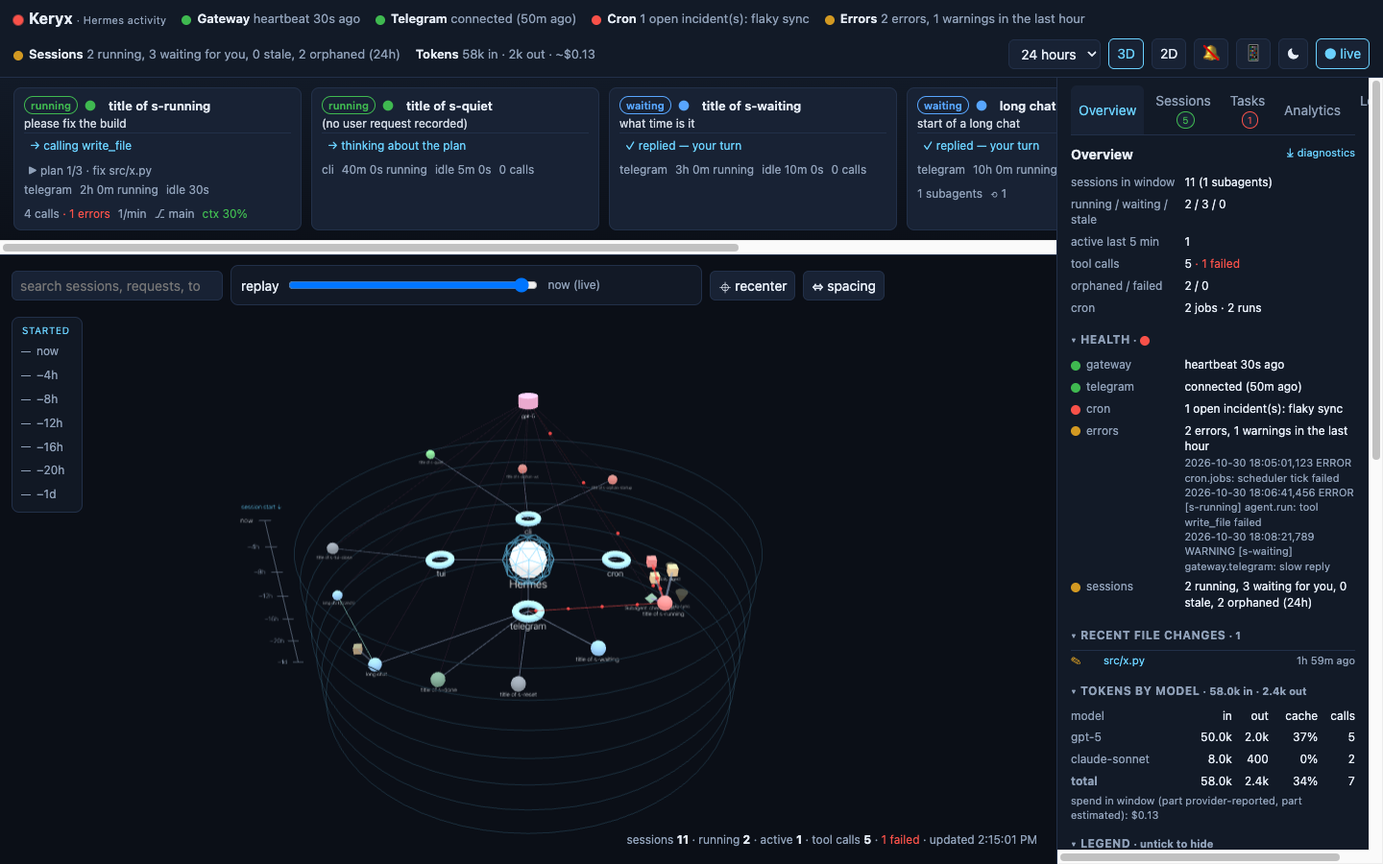
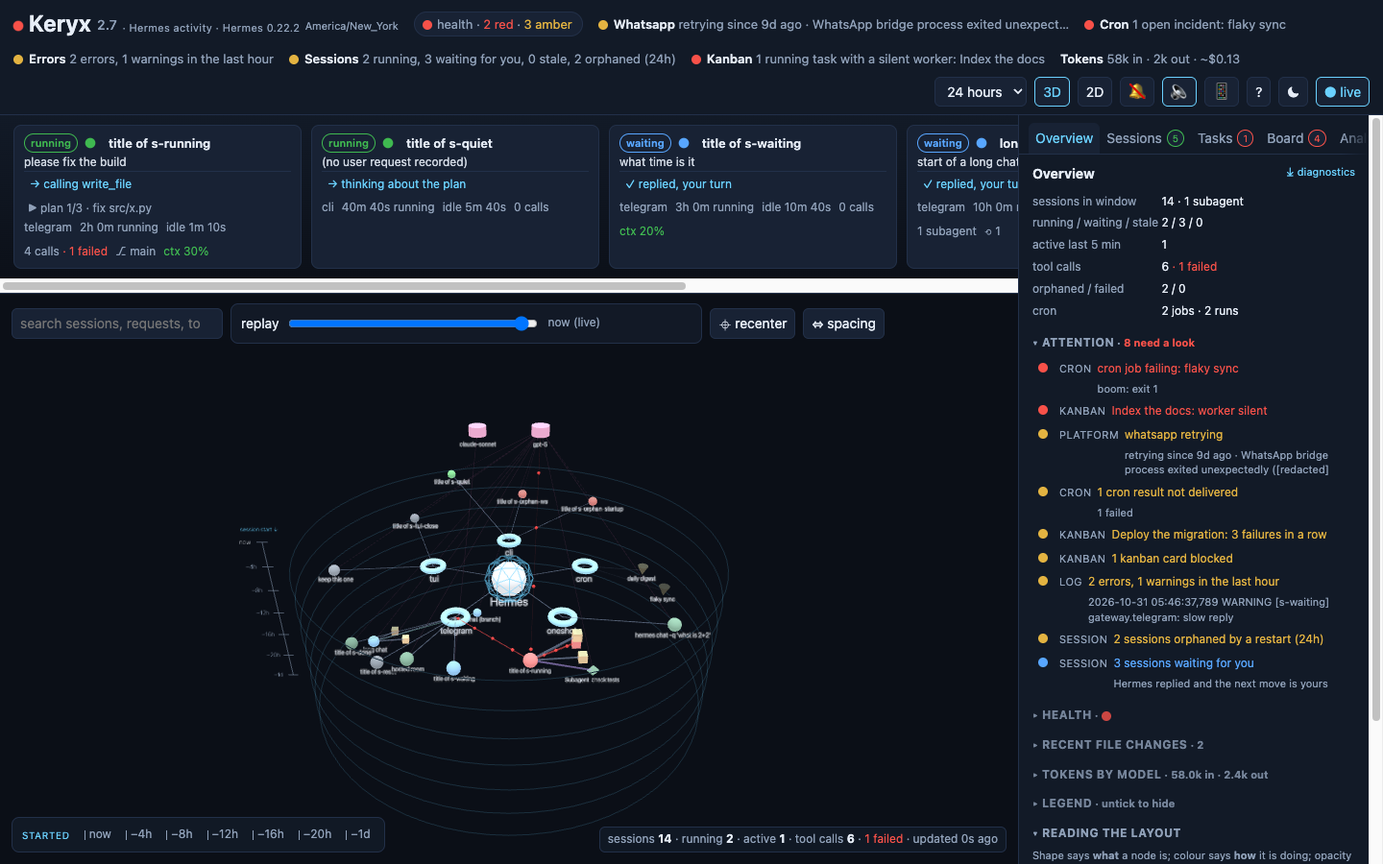
Docs: refresh for 2.7, new screenshots
README and the website now describe the header pill and attention list,
the regrouped session detail, the board and analytics tabs, the phone
layout, the first-run card, the keyboard, sounds, and how the context
window is resolved. Every screenshot is regenerated from the synthetic
test fixture at 1440×900 (graph, session, board, analytics, tasks, logs,
light theme) plus two phone views at 400×800; the README gains a gallery
and the website four new figures.

Changed region(s): [[0.0, 0.0, 1.0, 1.0], [0.1875, 0.4356, 0.5312, 0.8089], [0.0312, 0.9644, 0.0938, 0.9956]]

diff --git a/docs/index.html b/docs/index.html
@@ -161,8 +161,8 @@ footer .wrap > div { display: flex; flex-wrap: wrap; gap: 16px; align-items: cen
       </div>
     </div>
     <figure class="shot" style="margin:0">
-      <img src="img/graph.png" width="1440" height="900" alt="The Keryx dashboard: a health header, a strip of running sessions, the 3D graph with Hermes at the centre and platforms, sessions, tools and cron jobs around it, and the overview side panel">
-      <figcaption>A Hermes install with two live sessions, a compacted Telegram chat, a subagent, two cron jobs and one open incident (sample data).</figcaption>
+      <img src="img/graph.png" width="1440" height="900" alt="The Keryx dashboard: a health pill, a strip of running sessions, the 3D graph with Hermes at the centre and platforms, sessions, tools and cron jobs around it, and the overview panel with its attention list">
+      <figcaption>A Hermes install with two live sessions, a compacted Telegram chat, a subagent, two cron jobs, a kanban board and one open incident (sample data). The attention list on the right says what needs a look.</figcaption>
     </figure>
   </div>
 </header>
@@ -221,7 +221,7 @@ footer .wrap > div { display: flex; flex-wrap: wrap; gap: 16px; align-items: cen
       </div>
       <div class="card">
         <h3>Position is when it started</h3>
-        <p>Each platform (Telegram, TUI, CLI, cron…) owns a wedge around the hub and its sessions sit inside it, ordered by start time. A labelled time axis runs down the side: in 3D the rings step downward from "now", in 2D they grow outward. Opacity fades with age. Subagents orbit the session that spawned them; tools cluster around the session that called them; models sit on a shelf above; cron jobs fan out below.</p>
+        <p>Each platform (Telegram, TUI, CLI, cron…) owns a wedge around the hub and its sessions sit inside it, ordered by start time. In 3D the rings step downward from "now", in 2D they grow outward, and a clickable ruler along the bottom of the graph filters by when a session started. Opacity fades with age; labels scale with distance. Subagents orbit the session that spawned them; tools cluster around the session that called them; models sit on a shelf above; cron jobs fan out below.</p>
       </div>
     </div>
   </div>
@@ -236,13 +236,14 @@ footer .wrap > div { display: flex; flex-wrap: wrap; gap: 16px; align-items: cen
 
     <div class="two">
       <figure class="shot" style="margin:0">
-        <img src="img/session.png" width="1440" height="900" alt="A session selected in Keryx: its tools fanned out in a ring, and the side panel showing status, request, plan progress, context gauge, cost, working directory, the agent's todo checklist, files touched and the turn-by-turn trace">
-        <figcaption>A selected session: tools fan out in a ring facing you; the panel shows its plan, context gauge, cost and trace.</figcaption>
+        <img src="img/session.png" width="1440" height="900" alt="A session selected in Keryx: its tools fanned out in a ring, and the side panel showing status, request, latest step, the context gauge, the resume command and the turn-by-turn trace">
+        <figcaption>A selected session: tools fan out in a ring facing you; the panel opens with four lines and the trace, then the plan, what fills the context and files touched.</figcaption>
       </figure>
       <div class="grid" style="grid-template-columns:1fr">
         <div class="card">
           <h3>Health header</h3>
           <ul>
+            <li>The title dot shows the worst check; a <strong>health</strong> pill counts the red and amber ones and opens every check; only checks that are not green stay inline.</li>
             <li><strong>Gateway</strong> heartbeat and Hermes' own process state and version from <code>gateway_state.json</code>, one check per <strong>messaging platform</strong> as the gateway reports it (with the error it recorded when one is retrying), <strong>cron</strong> scheduler, the <strong>error log</strong>, session states, and the kanban board when it has tasks, each green / amber / red; the worst one drives the title dot.</li>
             <li>The cron check reads Hermes' own incident ledger and delivery queue: an open incident is red, undelivered results are amber.</li>
             <li>Token totals for the window with the spend, prefixed <code>~</code> when it is an estimate rather than a provider-reported figure.</li>
@@ -274,7 +275,8 @@ footer .wrap > div { display: flex; flex-wrap: wrap; gap: 16px; align-items: cen
         <ul>
           <li>Window selector from the last hour to all time.</li>
           <li><strong>Replay</strong>: drag the bar to re-query the graph as of any moment in the window and watch sessions appear, run and end.</li>
-          <li>Click a label on the time axis to keep only the sessions that started in that span.</li>
+          <li>Click a label on the ruler under the graph to keep only the sessions that started in that span.</li>
+          <li>Times are shown in your browser's zone, named in the header; analytics days are counted in UTC.</li>
         </ul>
       </div>
       <div class="card">
@@ -288,14 +290,13 @@ footer .wrap > div { display: flex; flex-wrap: wrap; gap: 16px; align-items: cen
       <div class="card">
         <h3>Session detail</h3>
         <ul>
-          <li>Status, request, latest step, platform, model, timings, message and tool counts, call rate, subagents, end reason.</li>
-          <li>Tokens in / out, cache reads and hit rate, reasoning tokens, API calls, and the cost with its basis (provider-reported or estimated).</li>
-          <li>Working directory and git branch, profile, handoff state.</li>
+          <li>Opens with four lines, status, request, latest step and the context gauge, and the command that resumes the conversation in a terminal; the trace comes next.</li>
+          <li><strong>Cost and usage</strong> (tokens in / out, cache reads and hit rate, reasoning tokens, API calls, the cost with its basis) and <strong>lineage and environment</strong> (platform, model, timings, working directory and branch, profile, parent, compactions, Hermes' own flags) sit in collapsed sections.</li>
+          <li><strong>What fills the context</strong>: your messages, replies, tool-call arguments and tool output by tool, in characters, with the largest output.</li>
           <li>The agent's <strong>plan</strong> as a checklist (done, in progress, pending, cancelled).</li>
           <li><strong>Files touched</strong>: writes, patches, reads and searches, most recent first, with lines added and removed.</li>
           <li>The <strong>reading view</strong>: the conversation as turns (your question → a collapsible "steps · N" block → Hermes' reply), an <strong>outline</strong> of every question to jump to, an <strong>all / chat / changes</strong> filter, <strong>find in session</strong>, and <strong>copy or download as Markdown</strong>.</li>
           <li>Every tool call with a kind glyph, a one-line title (the command, path, query or goal), duration, exit code, output size and <code>+added −removed</code> for file edits; Hermes' own events (model switch, steer, auto-continue, delegation results) in place.</li>
-          <li>The command that resumes the conversation in a terminal (<code>hermes -r …</code>), one click to copy.</li>
         </ul>
       </div>
       <div class="card">
@@ -360,7 +361,7 @@ footer .wrap > div { display: flex; flex-wrap: wrap; gap: 16px; align-items: cen
           <li>Every selection is a browser history entry that remembers the selection, the tab and the camera pose. <kbd>Backspace</kbd> goes back, <kbd>Shift</kbd>+<kbd>Backspace</kbd> forward; <kbd>Alt</kbd>+<kbd>←</kbd> and trackpad swipes work too. <kbd>[</kbd> and <kbd>]</kbd> change tab, <kbd>↑</kbd> <kbd>↓</kbd> walk the session list, <kbd>?</kbd> in the header reopens the first-run card.</li>
           <li>On a phone the graph and the panel take turns at full width behind a map / panel toggle; light and dark themes are both designed, not inverted.</li>
           <li>The URL hash (<code>#session:…</code>, <code>#cron:…</code>) is a deep link you can share, or scan from the QR popover to open on your phone, where "add to home screen" keeps Keryx as an app.</li>
-          <li>Dark and light themes.</li>
+          <li>Every icon button is labelled for screen readers; focus rings are visible; a first-run card explains the picture and <kbd>?</kbd> brings it back.</li>
         </ul>
       </div>
       <div class="card">
@@ -374,12 +375,35 @@ footer .wrap > div { display: flex; flex-wrap: wrap; gap: 16px; align-items: cen
 
     <div class="two">
       <figure class="shot" style="margin:0">
+        <img src="img/board.png" width="1440" height="900" alt="The board tab: Hermes' kanban lanes with a running card opened to its comments, run history and event timeline">
+        <figcaption>Board: Hermes' kanban queue in its own lanes, read-only, with a card open.</figcaption>
+      </figure>
+      <figure class="shot" style="margin:0">
+        <img src="img/analytics.png" width="1440" height="900" alt="The analytics tab: insight sentences, session and token tiles, sessions-per-day momentum, cache hit, provider mix donut">
+        <figcaption>Analytics: insights, momentum, cache trend, provider mix, when Hermes works.</figcaption>
+      </figure>
+    </div>
+    <div class="two">
+      <figure class="shot" style="margin:0">
         <img src="img/tasks.png" width="1440" height="900" alt="The tasks tab: a completed delegation, two scheduled jobs with run history, an open incident and its lifecycle">
         <figcaption>Tasks: delegations, scheduled jobs, Hermes' incident ledger.</figcaption>
       </figure>
       <figure class="shot" style="margin:0">
         <img src="img/logs.png" width="1440" height="900" alt="The logs tab: error-level lines from errors.log, one of them tagged with the session that logged it">
         <figcaption>Logs: every file Hermes writes, filtered by level; session-tagged lines link to their session.</figcaption>
+      </figure>
+    </div>
+    <div class="two">
+      <figure class="shot" style="margin:0">
+        <img src="img/light.png" width="1440" height="900" alt="The light theme in 2D: the same graph with labels, rings and overlays in the light palette">
+        <figcaption>The light theme, 2D view: every overlay and graph colour follows the theme.</figcaption>
+      </figure>
+      <figure class="shot phones" style="margin:0;background:transparent;border:0;box-shadow:none">
+        <div style="display:flex;gap:12px;justify-content:center">
+          <img src="img/phone-panel.png" width="400" height="800" alt="Keryx on a phone: the overview panel at full width with the attention list" style="width:48%;border:1px solid var(--line);border-radius:12px">
+          <img src="img/phone-map.png" width="400" height="800" alt="Keryx on a phone: the map view, with session cards above the 2D graph" style="width:48%;border:1px solid var(--line);border-radius:12px">
+        </div>
+        <figcaption>On a phone the panel and the map take turns at full width.</figcaption>
       </figure>
     </div>
   </div>
@@ -441,7 +465,7 @@ cd keryx
         <tr><td><code>KERYX_SHOW_MEMORY</code></td><td>unset</td><td><code>1</code> adds the read-only memory tab (Hermes' <code>MEMORY.md</code> and <code>USER.md</code>); off by default because these are personal notes</td></tr>
         <tr><td><code>ACTIVE_WINDOW</code></td><td><code>300</code></td><td>seconds; a session touched this recently is "active" and its links carry particles</td></tr>
         <tr><td><code>STALE_AFTER</code></td><td><code>1800</code></td><td>seconds; a session mid-turn but idle for this long is shown as stale</td></tr>
-        <tr><td><code>CONTEXT_LENGTH</code></td><td><code>400000</code></td><td>assumed context window for the gauge when the model family is not recognised (Hermes does not record it; such gauges are marked <code>~</code>)</td></tr>
+        <tr><td><code>CONTEXT_LENGTH</code></td><td><code>400000</code></td><td>last-resort context window for the gauge; Keryx first uses <code>model.context_length</code> from Hermes' config, then the window Hermes probed into <code>context_length_cache.yaml</code>, then a built-in table</td></tr>
       </tbody>
     </table></div>
     <h3>What Keryx reads</h3>

diff --git a/README.md b/README.md
@@ -9,11 +9,28 @@ Keryx reads the agent's own records (its SQLite state, cron store and logs) with
 
 Named after κῆρυξ, the Greek herald who carried messages for Hermes. Keryx is an open-source project of [Aflux Systems LLC](https://www.afluxsystems.com). Website: **https://rafreid.github.io/keryx/**
 
-![Keryx showing a Hermes session with its tool ring, subagents and the side panel](docs/img/graph.png)
+![The Keryx dashboard: a health pill, running-session cards, the 3D graph of a Hermes install, and the overview panel with its attention list (sample data)](docs/img/graph.png)
 
 - **Read-only.** Keryx opens Hermes' files, never writes them, and never talks to the agent.
-- **Live.** A server-sent-events stream pushes an update whenever a Hermes file changes.
+- **Live.** A server-sent-events stream pushes an update whenever a Hermes file changes; every panel refreshes on that one clock.
 - **One rule for the picture.** Shape says *what* a thing is, colour says *how it is doing*, position says *when* it started.
+- **Triage first.** One ranked attention list says what needs a look, and every line leads to the node or the tab that explains it.
+- **Works on a phone, in both themes.** The graph and the panel take turns at full width; light and dark are both designed, not inverted.
+
+## Screenshots
+
+All screenshots are taken from the synthetic fixture the tests use, never from a real install.
+
+| | |
+|---|---|
+| ![A selected session: four summary lines, the resume command, and the trace as turns](docs/img/session.png) | ![The kanban board tab with a running card opened: comments, run history and the event timeline](docs/img/board.png) |
+| A selected session: status, request, latest step and context, then the trace as turns. | The kanban board, read-only, with a card open. |
+| ![The analytics tab: insight sentences, tiles, provider mix, hour-of-day clock](docs/img/analytics.png) | ![The tasks tab: delegations, scheduled jobs with run history, Hermes' incident ledger](docs/img/tasks.png) |
+| Analytics: insights, momentum, cache trend, provider mix, when Hermes works. | Tasks: delegations, scheduled jobs, incidents, the delivery queue. |
+| ![The logs tab: error-level lines, one tagged with the session that logged it](docs/img/logs.png) | ![The light theme in 2D: the same graph with labels and rings in the light palette](docs/img/light.png) |
+| Logs: every file Hermes writes, filtered by level; session-tagged lines link to their session. | The light theme, 2D view. |
+
+<p align="center"><img src="docs/img/phone-panel.png" width="280" alt="Keryx on a phone: the overview panel at full width with the attention list"> <img src="docs/img/phone-map.png" width="280" alt="Keryx on a phone: the map view, with the session cards above the 2D graph"></p>
 
 ## Quick start
 
@@ -75,13 +92,19 @@ docker compose pull keryx && docker compose up -d keryx      # Docker
 
 | Area | What it shows |
 |---|---|
-| Health header | the title dot shows the worst check and a **health** pill counts the red and amber ones (click it for every check); only checks that are not green stay inline. Checks: gateway (heartbeat, Hermes' own process state from `gateway_state.json`, the Hermes version), one check per messaging platform (Telegram, WhatsApp, webhook, API server… as the gateway reports them, with the error it recorded when one is retrying), cron scheduler (incidents, missed slots, undelivered results), error log, session states, the kanban board when it has tasks, storage (size of `state.db`, its WAL and the logs, free space on the data disk). Green / amber / red per check; the worst one drives the title dot. Token totals with the spend, marked `~` when estimated. |
-| Right now | every open session: the user's request, the latest step, the agent's plan progress, elapsed and idle time, calls per minute, context usage, git branch, subagents. |
-| Attention | one ranked list of everything red or amber (failing cron jobs, platforms that are not connected, silent kanban workers, undelivered results, log errors, a pending gateway restart, orphaned sessions) plus the sessions waiting for you; each line selects the node or opens the tab. |
-| Graph | Hermes at the centre, the platforms it talks on around it, each session in its platform's wedge with its tools clustered around it, subagents in orbit, models on a shelf, cron jobs below. 3D or 2D. |
-| Side panel | **overview** (health, recent file changes with lines added and removed, tokens by model, legend), **sessions** (grouped by platform, time or project; `#tags` from titles as filter chips; ☆ pins, plus ★ for sessions pinned in Hermes itself; Hermes' internal sessions (one-shot CLI calls, tool helpers, kanban workers) in a collapsed group of their own; sessions Hermes hides from its own picker stay out unless you tick "show hidden"; the search box also looks inside conversations through Hermes' full-text index), **tasks** (delegations board, scheduled jobs with run history and missed slots, Hermes' cron incidents and delivery queue), **board** (Hermes' kanban queue in its own lanes, read-only: cards with assignee, priority, heartbeat and failure streak; click one for its body, result, worker session, comments, runs and event timeline; a board switcher when there are several), **analytics** (insight sentences, sessions-per-day momentum, cache-hit trend, provider mix, when Hermes works by hour of day and weekday, daily trend, a year heatmap, per-day cost, model share, Hermes' skill ledger, achievement unlocks), **logs** (filterable tails of every log file Hermes writes; lines logged inside a session link to it), **memory** (Hermes' `MEMORY.md` and `USER.md`, read-only, opt-in). Selecting a node shows its details, context gauge (sized from the window Hermes probed for the model, or `model.context_length` in its config), the agent's plan (its `todo_list`), what fills the context (your messages, replies, tool-call arguments and tool output by tool, in characters), files touched, the command to resume the conversation in a terminal, and the session as a reading view (below). |
+| Header | the title dot shows the worst health check; a **health** pill counts the red and amber ones and opens every check; only checks that are not green stay inline. Checks: gateway (heartbeat, Hermes' own process state and version from `gateway_state.json`, a pending restart), one per messaging platform as the gateway reports it, cron (incidents, missed slots, undelivered results), error log, sessions, the kanban board when it has tasks, storage. Token totals with the spend, `~` when estimated. The browser's timezone is named beside the title. |
+| Right now | one card per open session: the request, the latest step, plan progress, elapsed and idle time, calls per minute, context usage, git branch, subagents. |
+| Attention | one ranked list of everything red or amber (failing cron jobs, platforms that are not connected, silent kanban workers, undelivered results, log errors, a pending gateway restart, orphaned sessions) and, last, the sessions waiting for you. Each line selects the node or opens the tab. |
+| Graph | Hermes at the centre, the platforms it talks on around it, each session in its platform's wedge with its tools clustered around it, subagents in orbit, models on a shelf, cron jobs below. 3D or 2D; labels scale with distance. A clickable ruler along the bottom filters by when a session started. |
+| Selected node | a session opens with four lines (status, request, latest step, context gauge) and the command to resume it in a terminal, then the **trace** as a reading view, the agent's **plan** (its `todo_list`), **what fills the context** (your messages, replies, tool-call arguments and tool output by tool, in characters), **files touched**, and two collapsed sections: cost and usage, lineage and environment. |
+| Sessions tab | grouped by platform, time or project; `#tags` from titles as filter chips; ☆ pins, ★ for sessions pinned in Hermes itself; Hermes' internal sessions (one-shot calls, tool helpers, kanban workers) in a collapsed group; sessions Hermes hides stay out unless you tick "show hidden". The search box also looks inside conversations through Hermes' full-text index. |
+| Tasks tab | delegations board, scheduled jobs with run history and missed slots, Hermes' cron incidents and delivery queue. |
+| Board tab | Hermes' kanban queue in its own lanes, read-only: cards with assignee, priority, heartbeat and failure streak; click one for its body, result, worker session, comments, runs and event timeline; a board switcher when there are several. |
+| Analytics tab | insight sentences, sessions-per-day momentum, cache-hit trend, provider mix, when Hermes works by hour of day and weekday, daily trend, a year heatmap, per-day cost, model share, Hermes' skill ledger, achievement unlocks. |
+| Logs tab | filterable tails of every log file Hermes writes; lines logged inside a session link to it. |
+| Memory tab | Hermes' `MEMORY.md` and `USER.md`, read-only, opt-in (`KERYX_SHOW_MEMORY=1`). |
 | Phone | under 800px the graph and the panel take turns at full width behind a map / panel toggle; screens under 1200px start in 2D. |
-| Keyboard | `⌘K` search · `[` `]` change tab · `↑` `↓` walk the session list, `Enter` selects · `Esc` deselects · `Backspace` back, `Shift+Backspace` forward. A `?` in the header reopens the first-run card. |
+| First run | a card explains shape, colour and position, the glyphs, and where the data comes from; the `?` in the header brings it back. |
 | Notifications | in-app toasts, desktop notifications if you allow them, and optional short synthesised sounds (no audio files), when Hermes replies and waits for you, a session fails or is orphaned, a delegation finishes, a cron job fails or misses its trigger. |
 
 **Compacted conversations.** When Hermes compacts a long chat it ends the session and continues in a child session. Keryx folds that lineage into one node: it starts when the first segment started, takes its colour from the latest segment, and its trace shows every segment with a ⟲ marker where the context was compacted. The node keeps the first segment's id, so a `#session:…` link to any segment opens the same node. Branches the user made (`/branch`) stay separate sessions joined to their origin by a teal link; delegated subagents keep their purple link.
@@ -94,7 +117,7 @@ docker compose pull keryx && docker compose up -d keryx      # Docker
 
 **Reading the graph.** Hover highlights a neighbourhood. Click a node to select it; sessions fan their tools out in a ring facing you. Click a platform to collapse it. Search dims everything that does not match. The legend in the overview tab has checkboxes to hide any kind or status.
 
-**Time.** The window selector (last hour to all time) sets what is loaded. The replay bar re-queries the graph as of any moment in the window. The time axis on the left is clickable: each label keeps only the sessions that started in that span, and the stats bar reads "showing N of M".
+**Time.** The window selector (last hour to all time) sets what is loaded. The replay bar re-queries the graph as of any moment in the window. The ruler along the bottom of the graph is clickable: each label keeps only the sessions that started in that span, and the stats bar reads "showing N of M". Times are shown in your browser's zone (named in the header); analytics days are counted in UTC.
 
 **Spacing.** ⇔ spacing scales rings, link lengths and repulsion together (compact / normal / airy / wide, or a slider). ⌖ recenter frames the whole graph again. Both settings are remembered per browser.
 
@@ -108,9 +131,13 @@ docker compose pull keryx && docker compose up -d keryx      # Docker
 | `Shift+Backspace` | forward |
 | `Alt+←` / `Alt+→`, `⌘[` / `⌘]`, trackpad swipe | same, through the browser's own history |
 | `⌘K` / `Ctrl+K` | focus search and open the sessions tab |
+| `[` / `]` | previous / next side-panel tab |
+| `↑` / `↓`, `Enter` | walk the session list, select the focused row |
 | `Esc` | clear the selection |
 
-**Other buttons.** 🔔 enables desktop notifications. 📱 shows a QR code of the current page for your phone; Keryx ships a web-app manifest, so "add to home screen" keeps it as an app there. ☾/☀ toggles the theme. ⤓ diagnostics (overview tab) downloads a redacted snapshot to attach to a bug report.
+Every icon button carries a label for screen readers and a visible focus ring.
+
+**Other buttons.** 🔔 enables desktop notifications; 🔈 adds a short sound per notification (synthesised in the browser, off by default). 📱 shows a QR code of the current page for your phone; Keryx ships a web-app manifest, so "add to home screen" keeps it as an app there. `?` reopens the first-run card. ☾/☀ toggles the theme. ⤓ diagnostics (overview tab) downloads a redacted snapshot to attach to a bug report.
 
 ## Configuration
 
@@ -125,7 +152,7 @@ All settings are environment variables.
 | `KERYX_SHOW_MEMORY` | unset | `1` adds a read-only **memory** tab showing Hermes' `memories/MEMORY.md` and `USER.md` entries with their character budgets. These are personal notes about you and your environment, so the tab is off until you ask for it; the diagnostics download never includes them |
 | `ACTIVE_WINDOW` | `300` | seconds; a session touched this recently is "active" and its links carry particles |
 | `STALE_AFTER` | `1800` | seconds; a session that is mid-turn but idle for this long is shown as stale |
-| `CONTEXT_LENGTH` | `400000` | assumed context window for the context gauge when the model name is not a recognised family (Hermes does not record the window size; such gauges are marked `~`) |
+| `CONTEXT_LENGTH` | `400000` | last-resort context window for the gauge. Keryx first uses `model.context_length` from Hermes' config.yaml, then the window Hermes probed and cached in `context_length_cache.yaml`, then a small built-in table; only a model none of those know falls back to this value, and the gauge says so |
 
 Colours and labels live in `frontend/src/util.js`; rebuild after changing them.
 
@@ -150,7 +177,7 @@ The only endpoint designed to be shared is `/api/diagnostics`, which is redacted
 | `frontend not built` (HTTP 503 on `/`) | you ran from source without building: `cd frontend && npm install && npm run build`, or use the published image. |
 | The graph is empty | widen the window (top right); the default is the last 24 hours. |
 | Health says `no heartbeat` | Hermes' gateway is not running, or it is an old Hermes without the `gateway_heartbeats` table. |
-| Context gauge shows `~` | Hermes does not record the model's context size; set `CONTEXT_LENGTH` to your model's window. |
+| Context gauge says "assumed window" | neither Hermes' config nor its probe cache knows this model's window; set `model.context_length` in Hermes' config.yaml or `CONTEXT_LENGTH` for Keryx. |
 | The page asks for a token | `KERYX_TOKEN` is set on the server; paste it once. |
 | Sessions tab says `slow search (no FTS index)` | your Hermes predates the `messages_fts` index; Keryx falls back to a `LIKE` scan, which works but is slower on a big `state.db`. |
 | Memory tab says the panel is off | expected: set `KERYX_SHOW_MEMORY=1` to show Hermes' memory files. |
@@ -165,7 +192,7 @@ cd frontend
 npm install
 KERYX_API=http://localhost:9120 npm run dev     # Vite dev server with /api proxied to a running backend
 npm run build                                  # production build into backend/static
-npm test                                       # vitest: layout and notification logic
+npm test                                       # vitest: layout, turns, grouping, notification, sound and plural logic
 ```
 
 Backend tests build a miniature Hermes data directory (state.db, cron store, logs) in a temp folder and run the real builders and routes against it:
@@ -182,7 +209,7 @@ Layout:
 
 ```
 backend/   FastAPI app (app.py), Dockerfile, requirements.txt, tests/, static/ (built front end, not committed)
-frontend/  Vite + React + react-force-graph source; src/hooks/ holds the camera and time-axis hooks used by GraphView
+frontend/  Vite + React + react-force-graph source; src/hooks/ holds the camera, time-axis, media-query and refresh-tick hooks
 docs/      the project website (GitHub Pages) and screenshots
 ```
 
